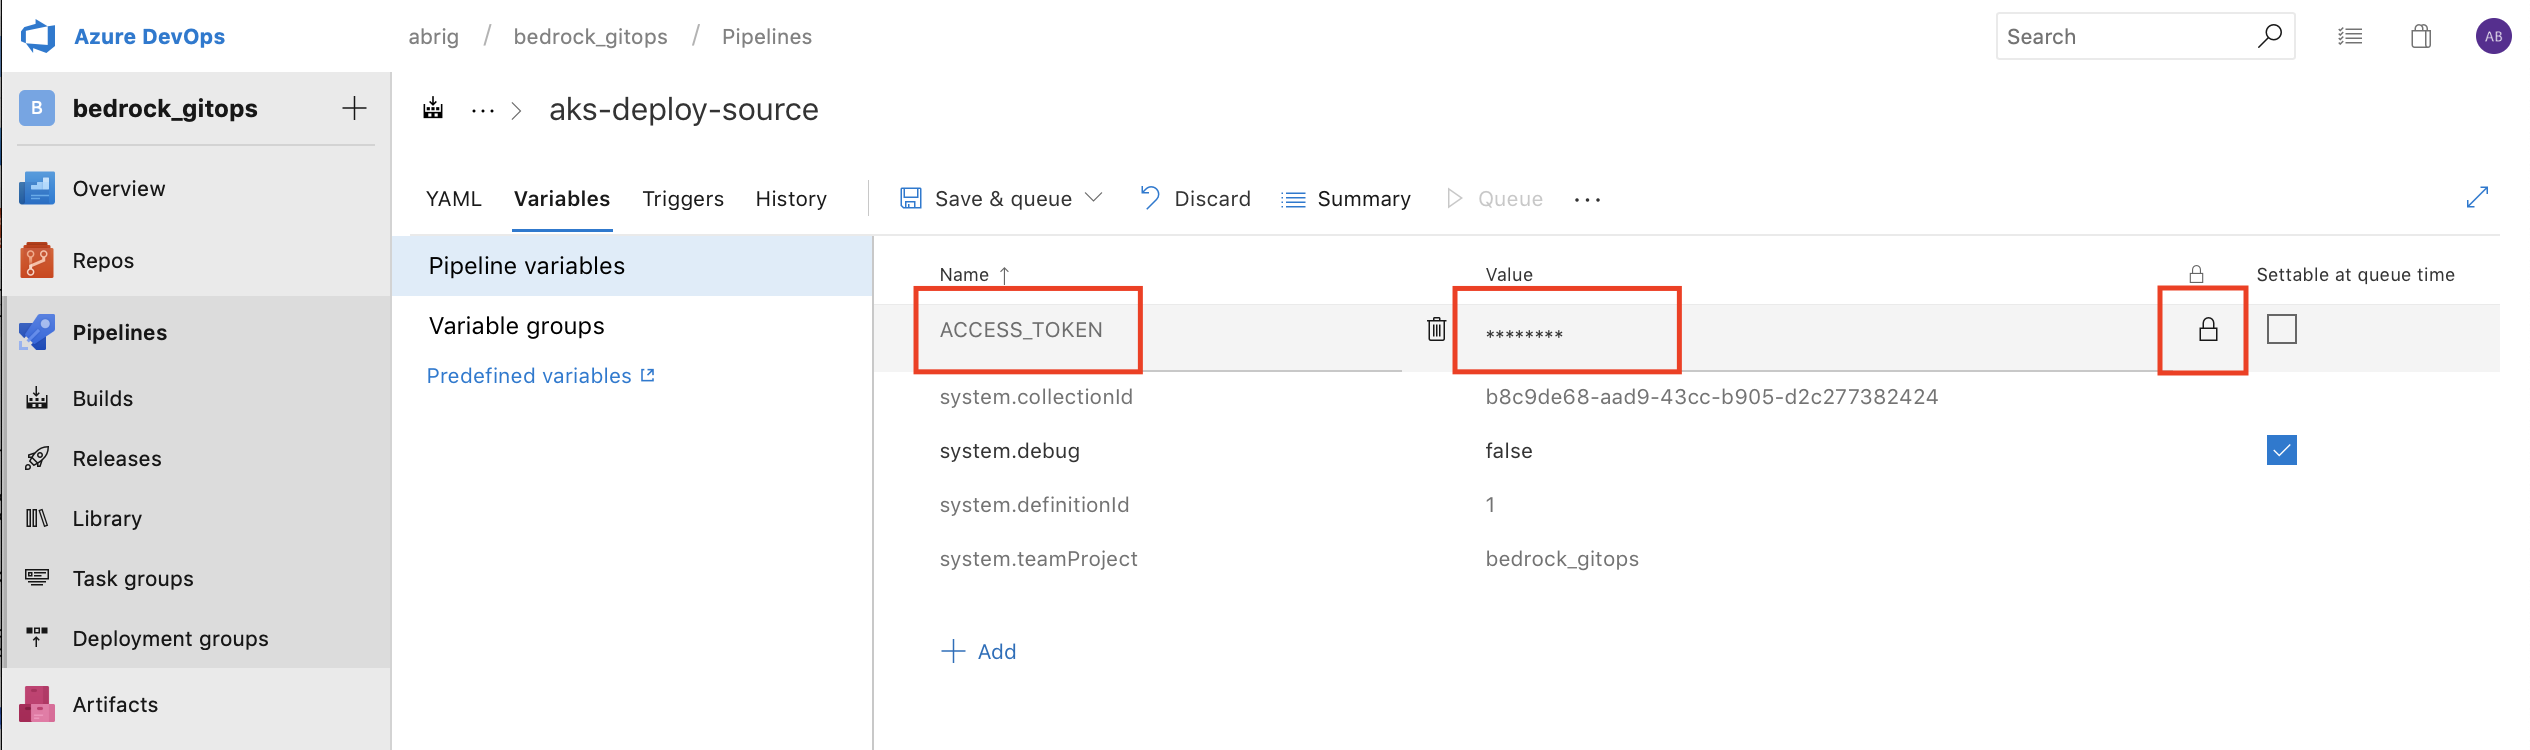
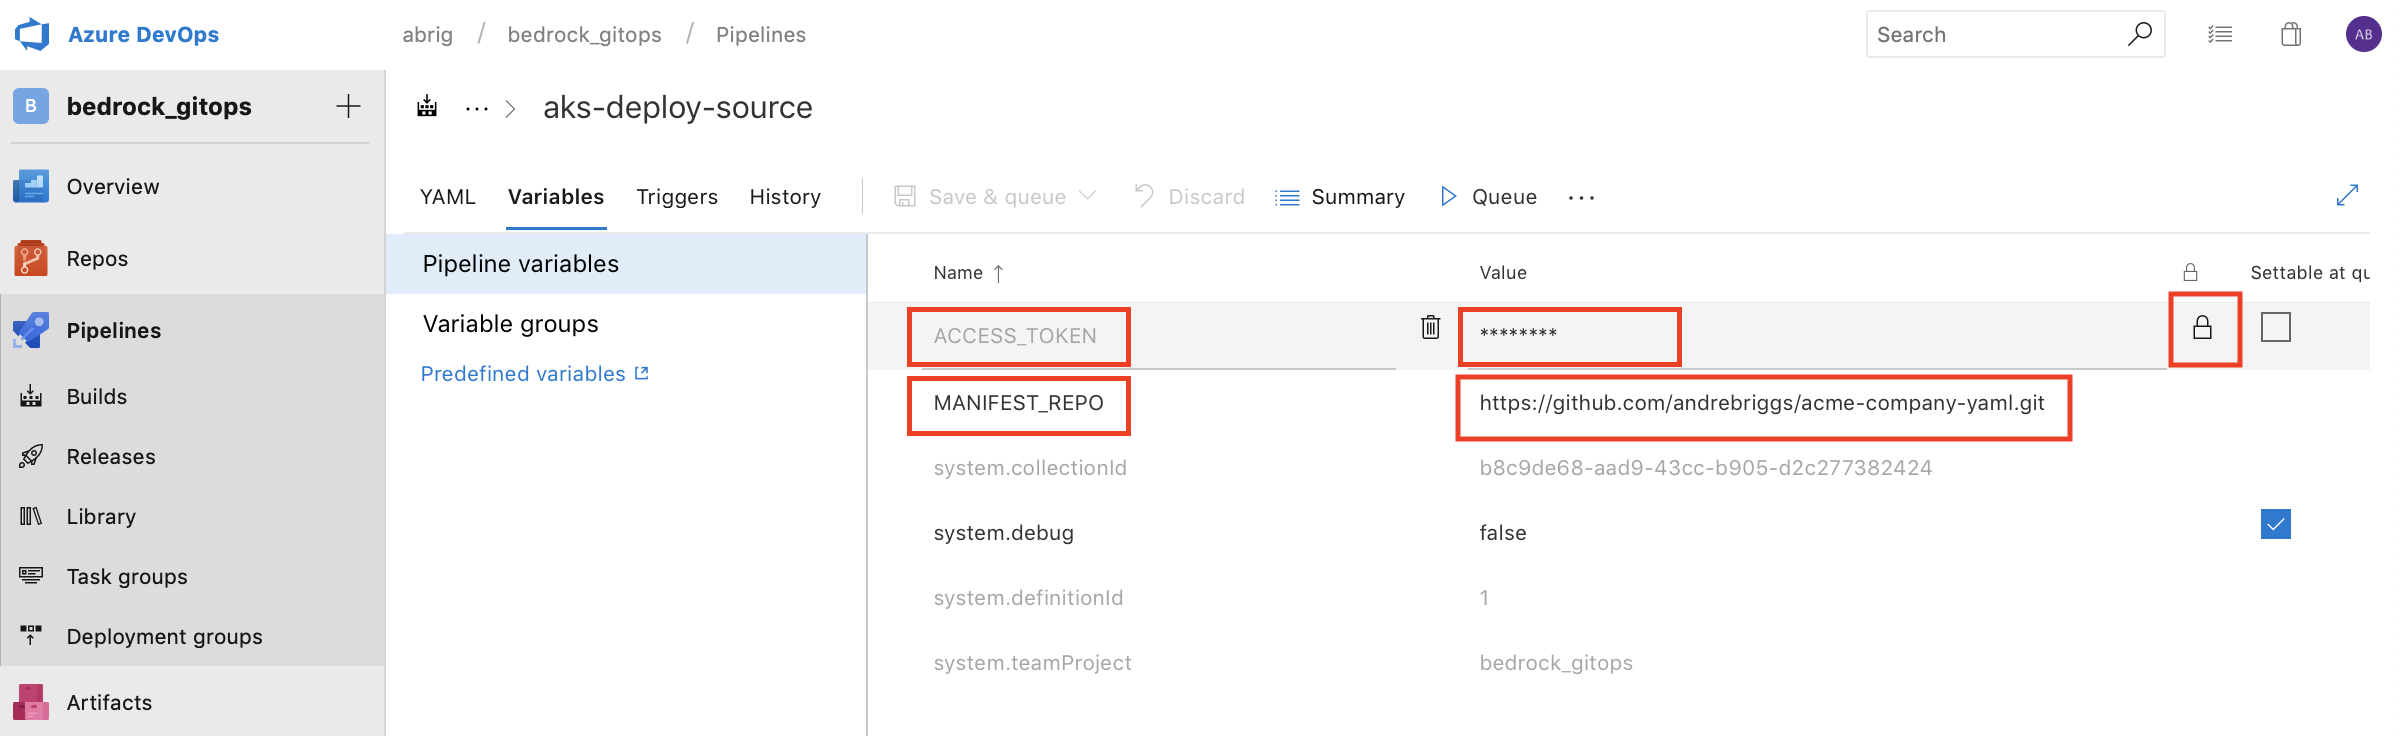
Various updates

diff --git a/gitops/azure-devops/README.md b/gitops/azure-devops/README.md
@@ -6,13 +6,12 @@ The expectation here is that from scratch you can set up the necessary repos to 
   * Create and deploy a [flux enabled AKS cluster](../../cluster/README.md)
 * Permissions:
   * Be able to create _Projects_ in your Azure DevOps _Organization_ 
-  * Create GitHub Personal Access Token (if using GitHub Repos)
 
 ## Sample HLD Repository
 We provide a [sample HLD repo](https://github.com/samiyaakhtar/aks-deploy-source) that can be imported or cloned based on the flavor of git repository you use. The sample HLD contains a [Cloud Native](https://github.com/timfpark/fabrikate-cloud-native) fabrikate definition.
 
 ### Azure Pipelines Build YAML
-The repo also contains an Azure Pipelines YAML file that controls some build rules on based upon whether a PR is occuring or if a merge to master branch has occured.
+The repo also contains an azure-pipelines.yml file that controls the build rules on based upon whether a PR is occuring or if a merge to master branch has occured. <u>You will need this file on your repository HLD repo even if you don't use the sample HLD repo.</u>
 
 ```
 trigger:
@@ -49,18 +48,15 @@ steps:
   env:
     ACCESS_TOKEN_SECRET: $(ACCESS_TOKEN)
     COMMIT_MESSAGE: $(Build.SourceVersionMessage)
-    AKS_MANIFEST_REPO: REPLACE_ME_WITH_ABSOLUTE_MANIFEST_REPO_URL
+    MANIFEST_REPO: $(MANIFEST_REPO)
 ```
-
-**NOTE**: Besure to set the **AKS_MANIFEST_REPO** environment variable value with the absolute URL to your manifest repo. (i.e. https://dev.azure.com/abrig/bedrock_gitops/_git/manifest_repo)
-
 
 At the end of this walkthrough you will have kubernetes manifest files corresponding to the Cloud Native stack on your manifest repo. These YAML files will then be deployed to your AKS cluster via Flux. 
 
 ## Walkthrough
-### 1. Create Repositories
+### 1. Create Repositories and Personal Access Tokens
 
-We provide instructions for creating HLD and Manifest repos in two flavors:
+We provide instructions for creating HLD/Manifest repos and personal access tokens in two flavors:
 * [Azure DevOps](ADORepos.md)
 * [GitHub](GitHubRepos.md)
 
@@ -93,11 +89,11 @@ At this point you will see `azure-pipeline.yml`, which is contained in the HLD r
 2. You should see the output of an azure pipeline. Instead of waiting for the build to finish, click the ellipsis (...) in the upper right corner and choose "Edit pipeline".
 3. You will see the YAML contents again. Click on the ellipsis to the right of the blue "Run" button and choose "Pipeline settings".
 4. Click the "Variables" tab.
-5. Add a variables:
+5. Add two variables that are consumed by the `build.sh` referenced in `azure_pipeline.yml`:
     ![set variables](images/set-variables.png)
-    1. __Name__ ACCESS_TOKEN __Value__ Personal Access Token ([Azure DevOps](https://docs.microsoft.com/en-us/azure/devops/organizations/accounts/use-personal-access-tokens-to-authenticate?view=azure-devops) or [GitHub](https://www.help.github.com/articles/creating-a-personal-access-token-for-the-command-line)) for your repo type
+    1. __Name__ `ACCESS_TOKEN` __Value__ Personal Access Token ([Azure DevOps](https://docs.microsoft.com/en-us/azure/devops/organizations/accounts/use-personal-access-tokens-to-authenticate?view=azure-devops) or [GitHub](https://www.help.github.com/articles/creating-a-personal-access-token-for-the-command-line)) for your repo type
         1. Click the "lock" icon to the right of the value field to indicate this is a _secret_. See screenshoot above.
-        2. These variables are consumed by the `build.sh` called in `azure_pipeline.yml`.
+    2.  __Name__ `MANIFEST_REPO` __Value__ The full URL to your manifest repo (i.e. https://github.com/andrebriggs/acme-company-yaml.git)
 6. Click "Save & Queue".
 7. You will see the build run and hopefully complete successfully. At this point we can make a PR change to the HLD repo.
   ![ADO Build](images/azure-pipelines-yaml.png)

diff --git a/gitops/azure-devops/ADORepos.md b/gitops/azure-devops/ADORepos.md
@@ -9,7 +9,13 @@ Once installed create a project in Azure DevOps
 $ az devops project create -n $PROJECT_NAME
 ```
 
-## 2. Create HLD & Manifest Repositories
+## 2. Create a Personal Access Token
+1. In Azure DevOps click the `Security` submenu after clicking your profile name in the upper right corner. Next choose `Personal Access Tokens` on the left window menu. Finally click `+ New Tokens`
+![ADO pat](images/find-pat.png)
+2. Make sure your PAT has appropriate permissions to read and write Azure DevOps builds and code.
+![ADO pat](images/pat-ado.png)
+
+## 3. Create HLD & Manifest Repositories
 Next, create high level deployment defintion and manifest repositories in your new ADO project
 ```
 $ az repos create --name $HLD_REPO_NAME
@@ -22,7 +28,7 @@ $ az repos import create --git-source-url $SAMPLE_HLD_REPO_PATH --repository HLD
 ```
 We provide a sample HLD GitHub repo [here](https://github.com/samiyaakhtar/aks-deploy-source) 
 
-The imported HLD example contains an Azure Pipelines yaml file that will activate checks on pull requests and merge to master branch. It will also import a `build.sh` script that the Azure Pipelines yaml file relies on. These processes are critical to maintaining the _release flow_.
+The imported HLD example contains an Azure Pipelines yaml file that will activate checks on pull requests and merge to master branch. It will also import a `build.sh` script that the [azure-pipelines.yml](README.md#azure-pipelines-build-yaml) file relies on. These processes are critical to maintaining the _release flow_.
 
 ## Reference
 * https://docs.microsoft.com/en-us/azure/devops/pipelines/repos/azure-repos-git?view=azure-devops

diff --git a/gitops/azure-devops/GitHubRepos.md b/gitops/azure-devops/GitHubRepos.md
@@ -9,11 +9,16 @@ Next, generate a [deploy key](https://developer.github.com/v3/guides/managing-de
 ## 2. Create a Flux enabled AKS Cluster
 Use the content of your public SSH key and path to your private SSH key when following the directions for cluster set up [here](https://github.com/Microsoft/bedrock/tree/master/cluster).
 
+## 3. Create a Personal Access Token
+In order to access the destination respository we need appropriate authentication. Create a GitHub Personal Access Token if you don't have one already. Instructions can be found [here](https://help.github.com/articles/creating-a-personal-access-token-for-the-command-line/).
+
+**IMPORTANT**: Make sure your personal access token has read/write access to private repositories.
+![github pat](images/pat-github.png)
 
 ## 3. Create HLD Repository
 In order to get started a [high level deployment definition](../README.md#high-level-deployment-description-hld-repo) repo is needed. We provide a sample GitHub repo [here](https://github.com/samiyaakhtar/aks-deploy-source) that you can fork.
 
- In order to access the destination respository we need appropriate authentication. Create a GitHub Personal Access Token if you don't have one already. Instructions can be found [here](https://help.github.com/articles/creating-a-personal-access-token-for-the-command-line/).
+If you choose to hand roll your own repository instead of forking make sure you have an [azure-pipelines.yml](README.md#azure-pipelines-build-yaml) file at the root of your repository.
 
 ## Reference
 * https://docs.microsoft.com/en-us/azure/devops/pipelines/repos/github?view=azure-devops
